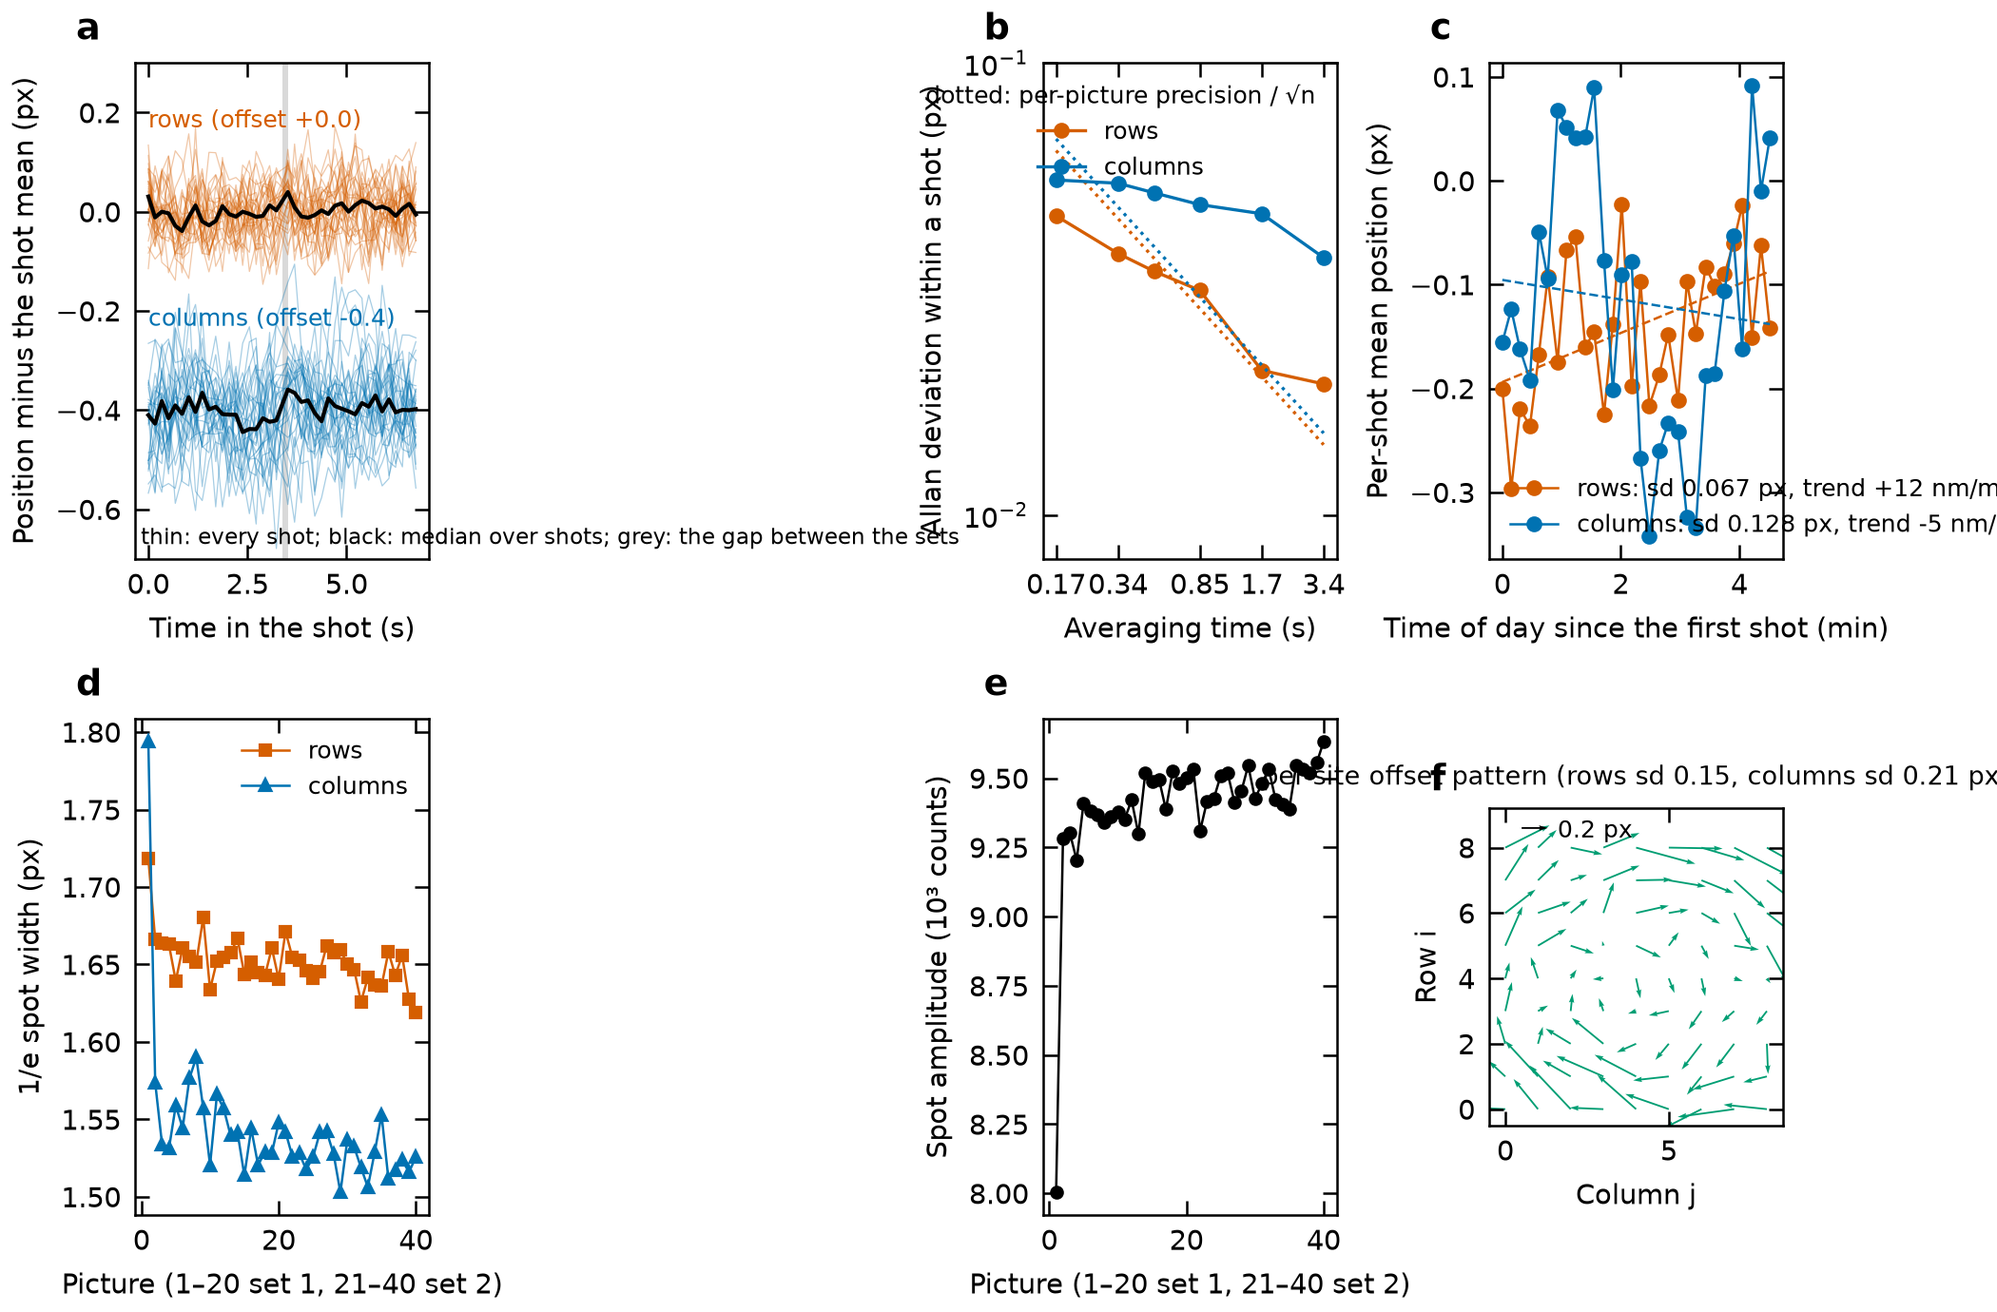
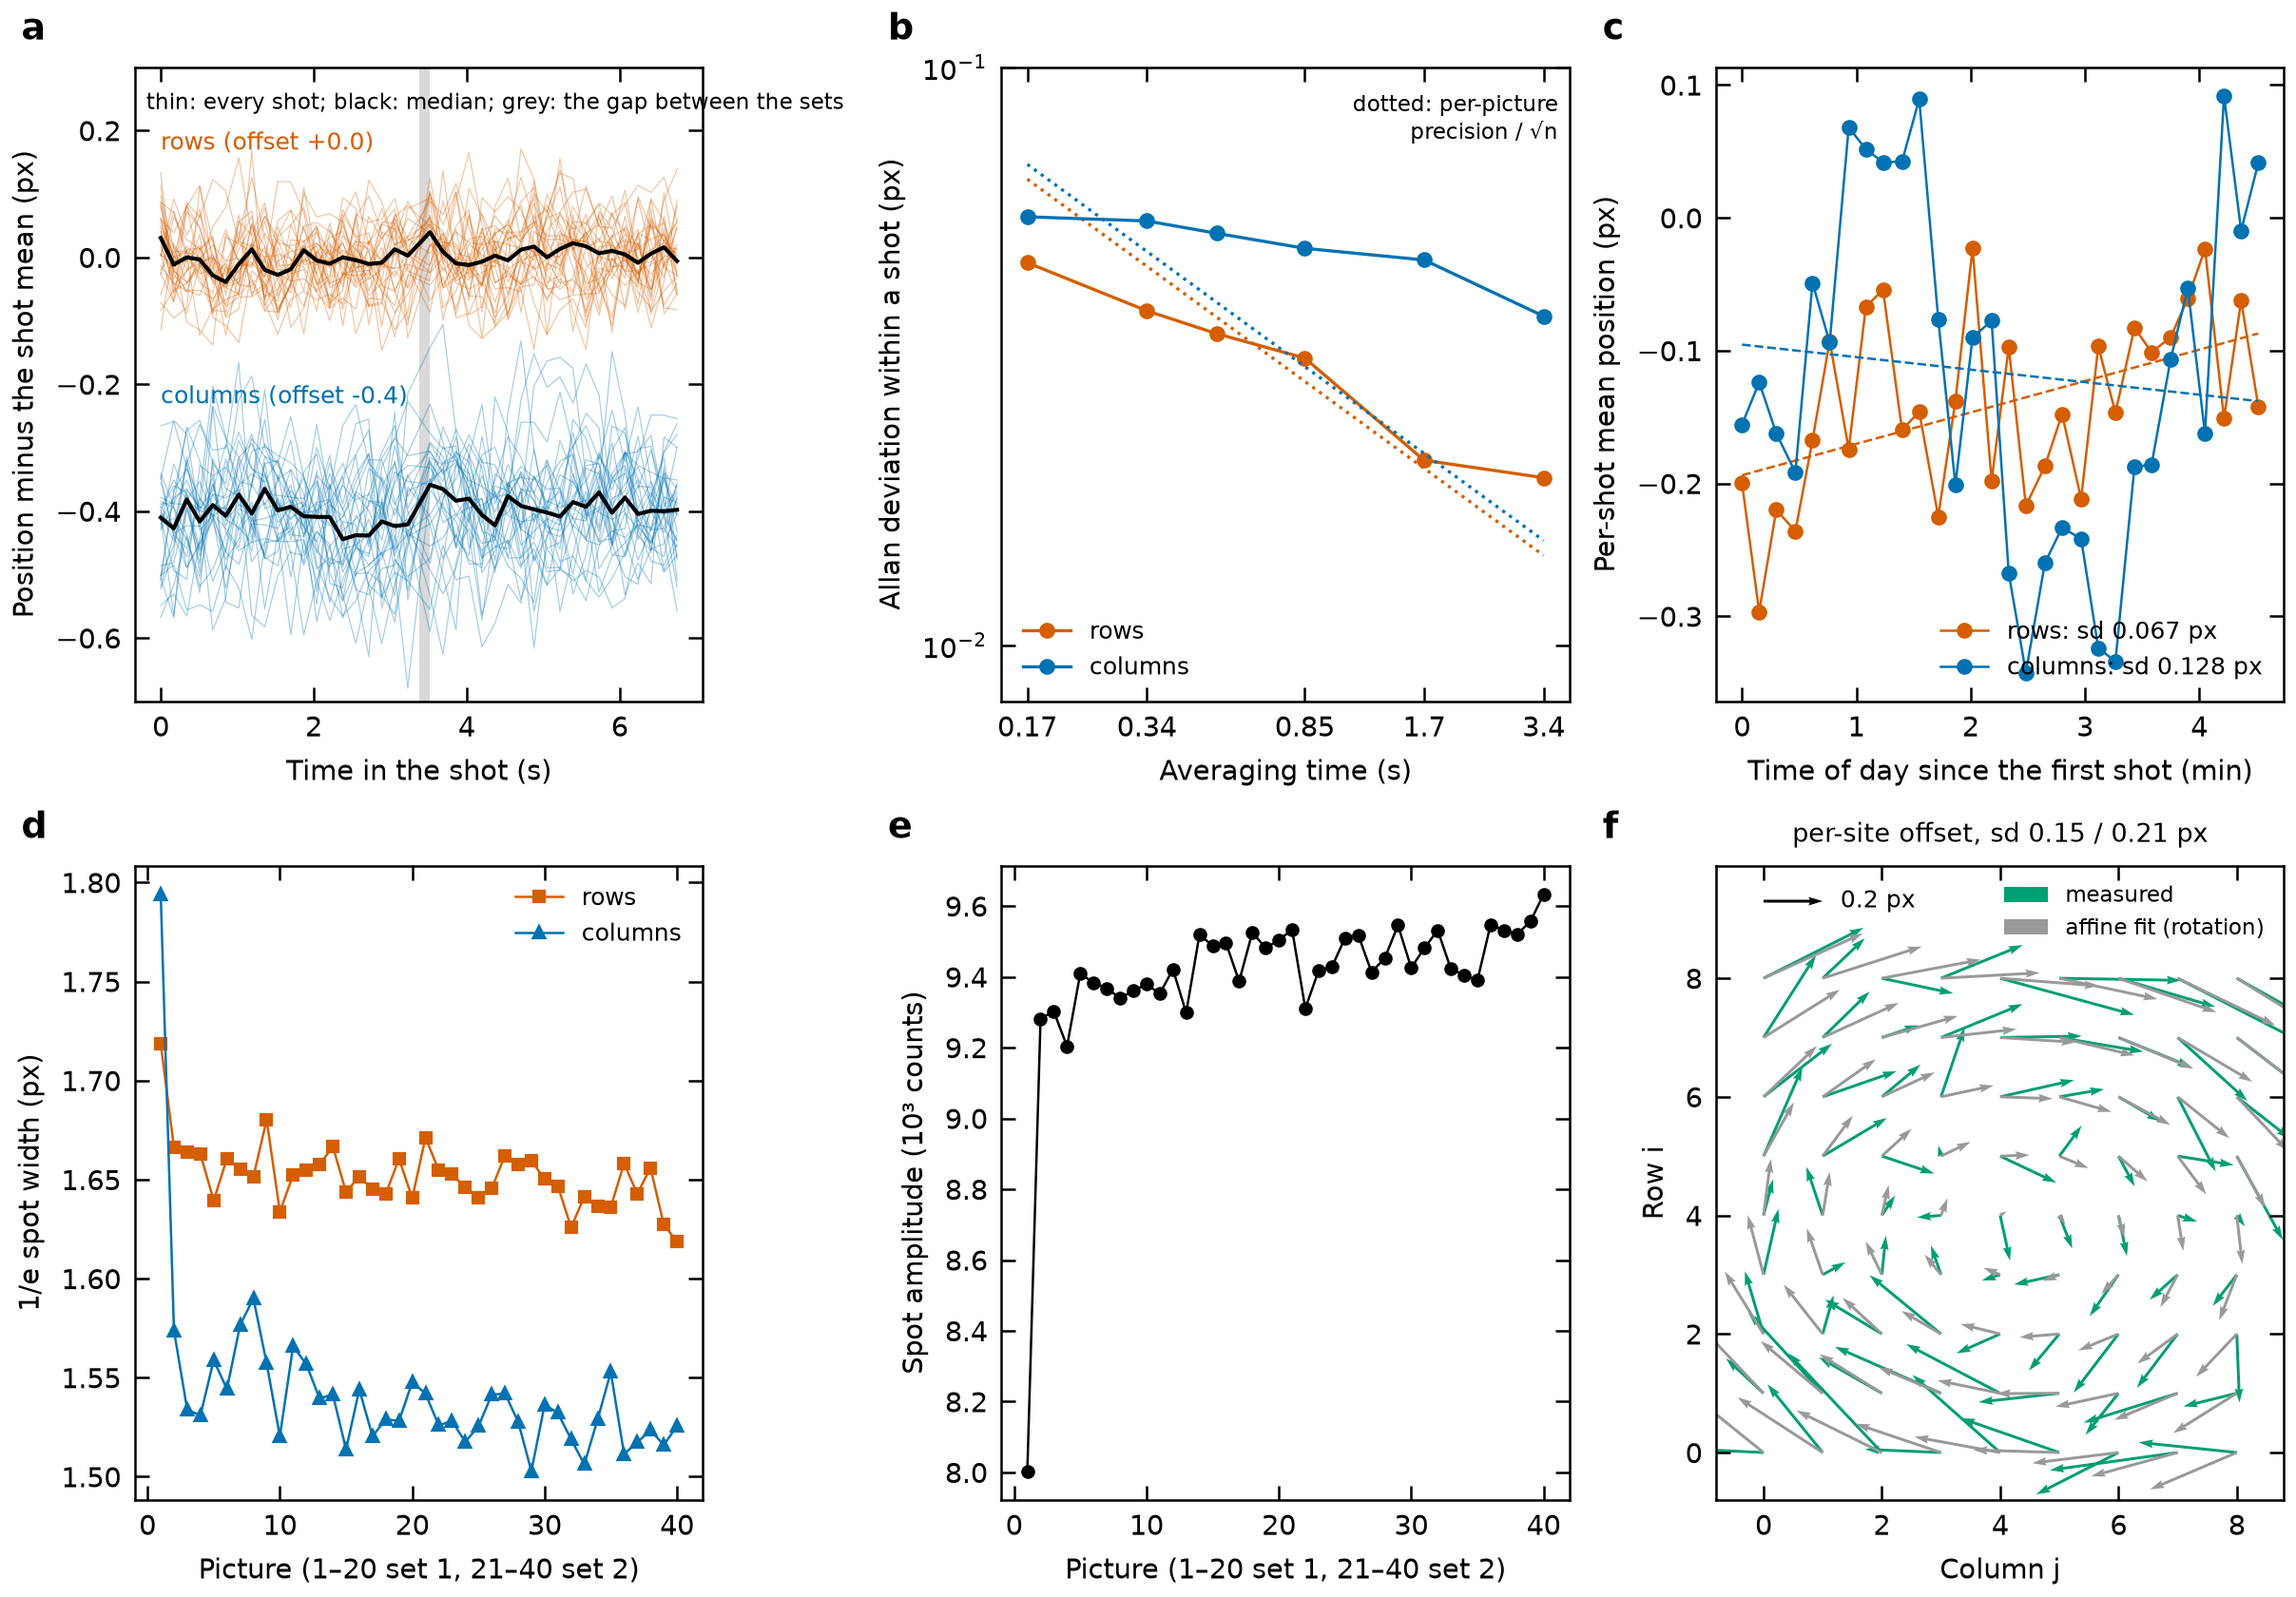
Jitter run 018: the per-site pattern is a 0.38 deg rotation of the lattice against the camera
An affine fit of the per-site offsets gives -6.6 mrad rotation, 1.7 mrad
shear and no pitch error; the residual is 0.09 / 0.07 px rms over the 81
sites. The figure gets six panels (no dual axis) with the measured and
fitted site offsets as arrows.

diff --git a/scripts/figure_jitter_20261102.py b/scripts/figure_jitter_20261102.py
@@ -57,7 +57,7 @@ def main():
             off["row"][s, k] = float(r["row_off_px"]); off["col"][s, k] = float(r["col_off_px"])
             wr[s, k] = float(r["w_rows_px"]); wc[s, k] = float(r["w_cols_px"]); amp[s, k] = float(r["amp"])
     sitemap = read_csv(MEAS / "jitter_20261102_sitemap.csv")
-    fig, ax = plt.subplots(2, 3, figsize=(DOUBLE_COLUMN_IN, 4.6), constrained_layout=True)
+    fig, ax = plt.subplots(2, 3, figsize=(DOUBLE_COLUMN_IN * 1.15, 5.6), constrained_layout=True)
     ax = ax.ravel()
     for a, dy in (("row", 0.0), ("col", -0.4)):
         w = off[a] - np.nanmean(off[a], 1)[:, None]
@@ -69,7 +69,7 @@ def main():
     ax[0].set_xlabel("Time in the shot (s)")
     ax[0].set_ylabel("Position minus the shot mean (px)")
     ax[0].set_ylim(-0.7, 0.3)
-    ax[0].text(0.02, 0.03, "thin: every shot; black: median over shots; grey: the gap between the sets", transform=ax[0].transAxes, fontsize=5.5)
+    ax[0].text(0.02, 0.96, "thin: every shot; black: median; grey: the gap between the sets", transform=ax[0].transAxes, fontsize=5.5, va="top")
 
     for a in ("row", "col"):
         rr = [r for r in al if r["axis"] == a]
@@ -79,7 +79,8 @@ def main():
         ax[1].loglog(tau, float(summ[a]["floor_px"]) / np.sqrt(n), ":", color=COL[a], lw=0.8)
     ax[1].set_xlabel("Averaging time (s)")
     ax[1].set_ylabel("Allan deviation within a shot (px)")
-    ax[1].legend(fontsize=6, loc="upper right", title="dotted: per-picture precision / √n", title_fontsize=6)
+    ax[1].legend(fontsize=6, loc="lower left")
+    ax[1].text(0.98, 0.96, "dotted: per-picture\nprecision / √n", transform=ax[1].transAxes, fontsize=5.5, ha="right", va="top")
     ax[1].set_ylim(0.008, 0.1)
     ax[1].set_xticks([0.17, 0.34, 0.85, 1.7, 3.4])
     ax[1].set_xticklabels(["0.17", "0.34", "0.85", "1.7", "3.4"])
@@ -95,13 +96,12 @@ def main():
     tmin = np.array(tmin)
     for a in ("row", "col"):
         y = np.array([float(r[f"{a}_mean_px"]) for r in shots])
-        ax[2].plot(tmin, y, "o-", color=COL[a], ms=3, lw=0.6, label=f"{'rows' if a == 'row' else 'columns'}: sd {float(summ[a]['sd_shot_px']):.3f} px, "
-                   f"trend {1e3 * UM_PER_PX * float(summ[a]['shot_drift_px_per_min']):+.0f} nm/min")
+        ax[2].plot(tmin, y, "o-", color=COL[a], ms=3, lw=0.6, label=f"{'rows' if a == 'row' else 'columns'}: sd {float(summ[a]['sd_shot_px']):.3f} px")
         sl, ic = np.polyfit(tmin, y, 1)
         ax[2].plot(tmin, sl * tmin + ic, "--", color=COL[a], lw=0.6)
     ax[2].set_xlabel("Time of day since the first shot (min)")
     ax[2].set_ylabel("Per-shot mean position (px)")
-    ax[2].legend(fontsize=6, loc="lower left")
+    ax[2].legend(fontsize=6, loc="lower right")
 
     k = np.arange(1, 2 * npic + 1)
     ax[3].plot(k, np.nanmedian(wr, 0), "s-", color=COL["row"], ms=2.5, lw=0.6, label="rows")
@@ -114,14 +114,16 @@ def main():
     ax[4].set_ylabel("Spot amplitude (10³ counts)")
     ii = np.array([int(r["i"]) for r in sitemap if r["row_offset_px"]]); jj = np.array([int(r["j"]) for r in sitemap if r["row_offset_px"]])
     dr = np.array([float(r["row_offset_px"]) for r in sitemap if r["row_offset_px"]]); dc = np.array([float(r["col_offset_px"]) for r in sitemap if r["row_offset_px"]])
-    ax[5].quiver(jj, ii, dc, dr, angles="xy", scale_units="xy", scale=0.25, width=0.006, color="#009E73")
-    ax[5].quiver([0.5], [8.6], [0.2], [0.0], angles="xy", scale_units="xy", scale=0.25, width=0.006, color="k")
-    ax[5].text(1.6, 8.5, "0.2 px", fontsize=6, va="center")
-    ax[5].set_xlim(-0.5, 8.5); ax[5].set_ylim(-0.5, 9.2)
-    ax[5].set_aspect("equal")
+    fr = np.array([float(r["row_affine_px"]) for r in sitemap if r["row_offset_px"]]); fc = np.array([float(r["col_affine_px"]) for r in sitemap if r["row_offset_px"]])
+    ax[5].quiver(jj, ii, dc, dr, angles="xy", scale_units="xy", scale=0.2, width=0.005, color="#009E73", label="measured")
+    ax[5].quiver(jj, ii, fc, fr, angles="xy", scale_units="xy", scale=0.2, width=0.005, color="0.6", label="affine fit (rotation)")
+    ax[5].quiver([0.0], [9.3], [0.2], [0.0], angles="xy", scale_units="xy", scale=0.2, width=0.005, color="k")
+    ax[5].text(1.3, 9.3, "0.2 px", fontsize=6, va="center")
+    ax[5].set_xlim(-0.8, 8.8); ax[5].set_ylim(-0.8, 9.9)
+    ax[5].legend(fontsize=5.5, loc="upper right")
     ax[5].set_xlabel("Column j")
     ax[5].set_ylabel("Row i")
-    ax[5].set_title("per-site offset pattern (rows sd {0:.2f}, columns sd {1:.2f} px)".format(float(summ["row"]["sitemap_sd_px"]), float(summ["col"]["sitemap_sd_px"])), fontsize=6.5)
+    ax[5].set_title("per-site offset, sd {0:.2f} / {1:.2f} px".format(float(summ["row"]["sitemap_sd_px"]), float(summ["col"]["sitemap_sd_px"])), fontsize=6.5)
     for a_, t_ in zip(ax, "abcdef"):
         a_.text(-0.2, 1.03, t_, transform=a_.transAxes, fontweight="bold", fontsize=9, va="bottom")
     out = REPO / "figures" / "jitter_20261102.png"

diff --git a/scripts/jitter_20261102.py b/scripts/jitter_20261102.py
@@ -193,6 +193,20 @@ def main():
             if m.sum() >= 10:
                 sitemap[0, i, j] = np.median(A_off_r[m]) - np.median(A_off_r)
                 sitemap[1, i, j] = np.median(A_off_c[m]) - np.median(A_off_c)
+    # the pattern as an affine distortion of the grid: offset = t + M (site position in px); M's antisymmetric part is a
+    # rotation of the lattice axes against the camera's, its diagonal a pitch error, the symmetric off-diagonal a shear
+    gi, gj = np.meshgrid(np.arange(Y), np.arange(X), indexing="ij")
+    okm = np.isfinite(sitemap[0])
+    G = np.column_stack([np.ones(okm.sum()), (gi[okm] - 4) * spacing[0], (gj[okm] - 4) * spacing[1]])
+    aff_r = np.linalg.lstsq(G, sitemap[0][okm], rcond=None)[0]      # drow = a0 + a1 x_row + a2 x_col
+    aff_c = np.linalg.lstsq(G, sitemap[1][okm], rcond=None)[0]      # dcol = b0 + b1 x_row + b2 x_col
+    affine = dict(rotation_mrad=1e3 * 0.5 * (aff_r[2] - aff_c[1]), shear_mrad=1e3 * 0.5 * (aff_r[2] + aff_c[1]),
+                  pitch_err_rows=aff_r[1], pitch_err_cols=aff_c[2],
+                  resid_rows=float(np.std(sitemap[0][okm] - G @ aff_r)), resid_cols=float(np.std(sitemap[1][okm] - G @ aff_c)))
+    print(f"\nper-site offset pattern: sd {np.nanstd(sitemap[0]):.3f} / {np.nanstd(sitemap[1]):.3f} px (rows / columns) over {okm.sum()} sites; "
+          f"affine fit: rotation of the lattice against the camera axes {affine['rotation_mrad']:+.2f} mrad ({np.degrees(affine['rotation_mrad'] / 1e3):+.3f} deg), "
+          f"shear {affine['shear_mrad']:+.2f} mrad, pitch error rows {1e3 * affine['pitch_err_rows']:+.1f}, columns {1e3 * affine['pitch_err_cols']:+.1f} px per 1000 px; "
+          f"residual {affine['resid_rows']:.3f} / {affine['resid_cols']:.3f} px")
     corr_r = A_off_r - np.nan_to_num(sitemap[0][A[:, 3].astype(int), A[:, 4].astype(int)])
     corr_c = A_off_c - np.nan_to_num(sitemap[1][A[:, 3].astype(int), A[:, 4].astype(int)])
     shotmean_sc = np.full((nshots, 2), np.nan)
@@ -292,10 +306,12 @@ def main():
     with open(OUT / "jitter_20261102_sitemap.csv", "w", encoding="utf-8", newline="") as fh:
         fh.write(hdr)
         w = csv.writer(fh)
-        w.writerow(["i", "j", "row_offset_px", "col_offset_px"])
+        fh.write("# affine fit of the pattern: " + ", ".join(f"{k} {v:.4f}" for k, v in affine.items()) + "\n")
+        w.writerow(["i", "j", "row_offset_px", "col_offset_px", "row_affine_px", "col_affine_px"])
         for i in range(Y):
             for j in range(X):
-                w.writerow([i, j] + [round(v, 4) if np.isfinite(v) else "" for v in (sitemap[0, i, j], sitemap[1, i, j])])
+                g = np.array([1.0, (i - 4) * spacing[0], (j - 4) * spacing[1]])
+                w.writerow([i, j] + [round(v, 4) if np.isfinite(v) else "" for v in (sitemap[0, i, j], sitemap[1, i, j])] + [round(float(g @ aff_r), 4), round(float(g @ aff_c), 4)])
 
 
 def allan_pooled(within, n):

diff --git a/docs/findings.md b/docs/findings.md
@@ -493,7 +493,7 @@ Exposure at a fixed 15k counts per plane at −40.5 MHz (6190 counts per saturat
 
 **Shot to shot the lattice moves by 30–50 nm.** The per-shot mean position scatters by 0.067 px (rows) and 0.128 px (columns) over 30 shots (4.5 min), a range of 0.3–0.4 px; with the per-site offset pattern taken out of every atom (below) 0.062 and 0.102 px, i.e. 32 and 53 nm. A linear trend over the 4.5 min accounts for little (+12 and −5 nm/min; sd about the trend 0.059 / 0.127 px). This is 3–5× the wander within a shot: the lattice sits still during an image set and lands somewhere else, by a tenth of a pixel, in the next cycle. Whether the cause is the lattice (the retro-reflectors, the X beam path) or the camera / objective (the objective is parked between cycles) is not decided by this run; a run with the objective stepped away and back inside a shot (block 2 of the plan) would separate them.
 
-**Per-site pattern.** The median offset of each site over the run scatters by 0.15 px (rows) and 0.21 px (columns) across the 81 sites, a fixed pattern (figure f): the atoms do not sit on a perfectly regular grid of this pitch as the camera sees them, by ≈ 0.1 µm rms. It is the same in every picture and shot, so it does not enter the jitter numbers, but it is what a fixed-centre fit on an ideal grid averages over.
+**Per-site pattern: the lattice axes are rotated against the camera's by 0.38°.** The median offset of each site over the run scatters by 0.15 px (rows) and 0.21 px (columns) across the 81 sites, a fixed pattern (figure f). An affine fit of it against the site position gives a rotation of −6.6 mrad (−0.38°) of the lattice grid against the camera rows and columns, a shear of 1.7 mrad and no pitch error (−1.0 and −0.1 px per 1000 px); the residual is 0.09 / 0.07 px rms, i.e. the atoms sit on a regular grid to ≈ 40 nm as the camera sees them. The pattern is the same in every picture and shot, so it does not enter the jitter numbers; the camera's fixed-centre fit, which assumes an axis-aligned grid, is offset by up to ±0.25 px at the corner sites because of it.
 
 **The first picture of a cycle is different.** Picture 1 of set 1 has 15 % less amplitude (8000 against 9300–9600 counts) and broader spots (columns 1.79 against 1.53 px 1/e), picture 1 of set 2 does not: the atoms are still being cooled by the imaging molasses during the first 150 ms after the lattice loading and PGC. Later pictures brighten slowly (9300 → 9600 counts over 40 pictures) while the atoms lost per picture (29.7 → 26.7 over the run) are the dim ones.
 
